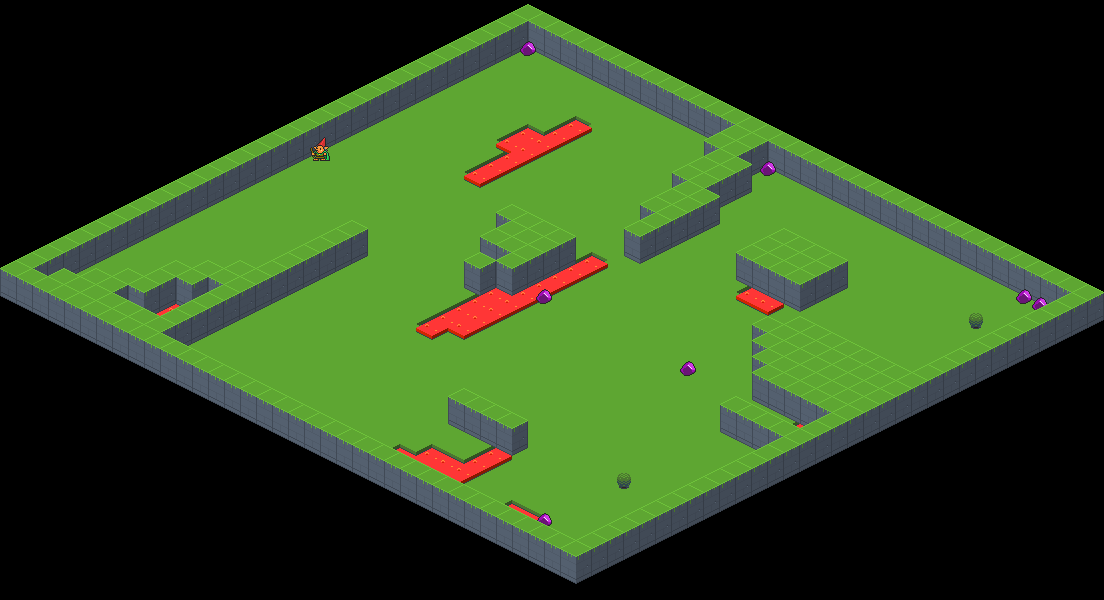
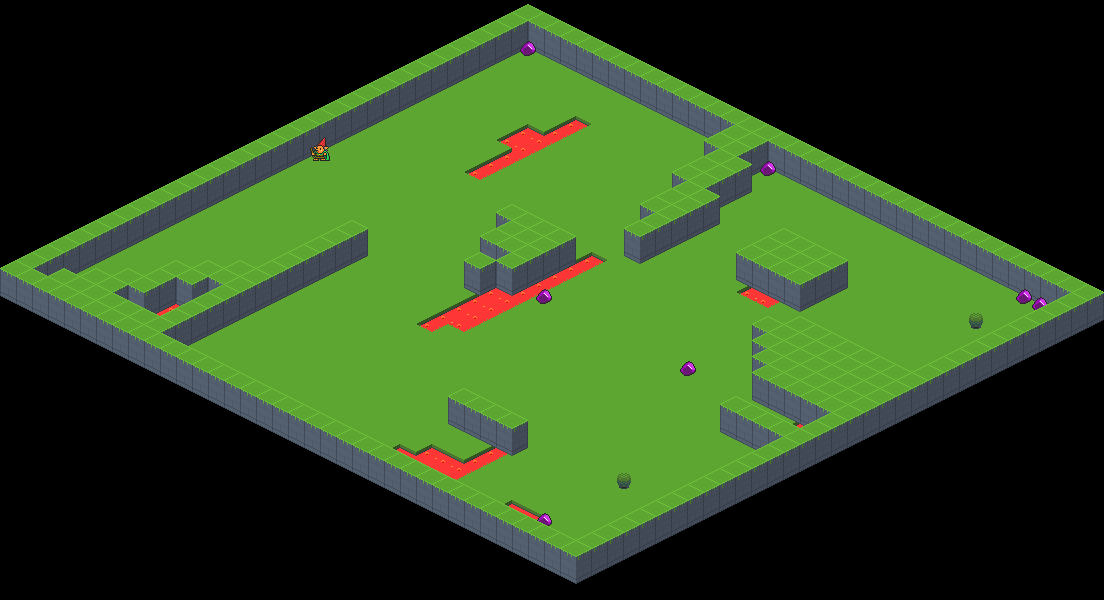
small fix for rendering order

diff --git a/src/Griddly/Core/Observers/IsometricSpriteObserver.cpp b/src/Griddly/Core/Observers/IsometricSpriteObserver.cpp
@@ -114,6 +114,11 @@ std::vector<vk::ObjectSSBOs> IsometricSpriteObserver::updateObjectSSBOData(Parti
         auto tilingMode = spriteDefinition.tilingMode;
         auto isIsoFloor = tilingMode == TilingMode::ISO_FLOOR;
 
+        if(isIsoFloor && zIdx == 0) {
+          zIdx = -1;
+        }
+
+
         spdlog::debug("Updating object {0} at location [{1},{2}]", objectName, location.x, location.y);
 
         if (objectIt == objectAtLocation.begin() && !isIsoFloor) {
